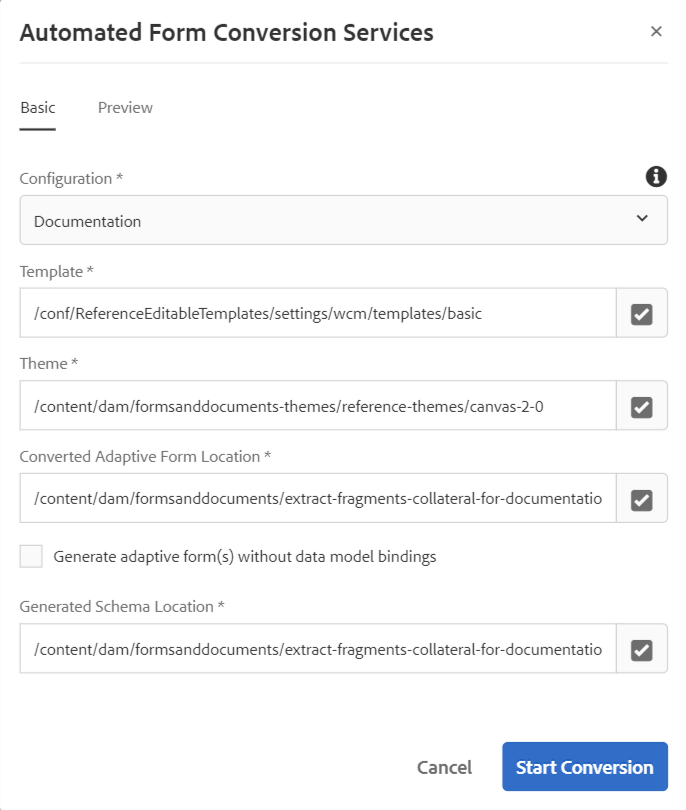
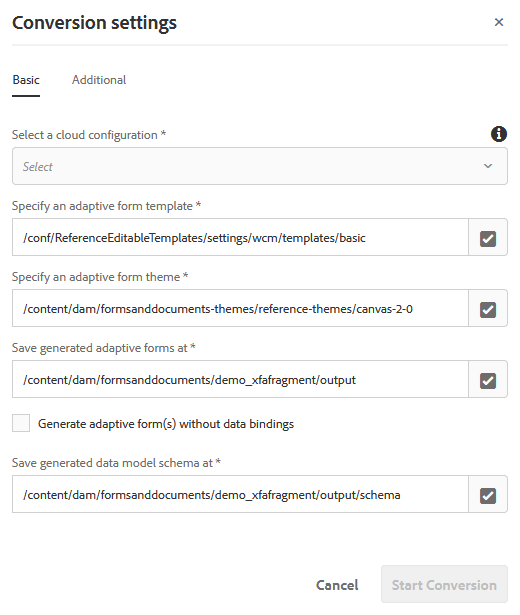
Some updates to docs

diff --git a/help/convert-existing-forms-to-adaptive-forms.md b/help/convert-existing-forms-to-adaptive-forms.md
@@ -34,7 +34,7 @@ After you connect your AEM instance with AEM Forms Conversion Service, you can c
 
 The conversion service converts PDF forms available on your AEM Forms instance to adaptive forms. You can upload all the PDF forms at once or in a phased manner, as required. Before uploading the forms, consider the following:
 
-* Keep the number of forms in folder less than 15 and keep the total number of pages in a folder less than 50.  
+* Keep the number of forms in a folder less than 15 and keep the total number of pages in a folder less than 50.  
 * Keep the size of folder less than 10 MB. Do not keep forms in a sub-folder.
 * Keep the number of pages in a form less than 15.  
 * Do not upload the protected forms. The service does not convert password-protected and secured forms. 
@@ -54,17 +54,16 @@ Perform the following steps to upload the forms to be converted to a folder on y
 
 After you have uploaded the forms and configured the service, perform the following steps to start the conversion:
 
-1. On your AEM Forms instance, tap **[!UICONTROL Adobe Experience Manager]** ![](assets/adobeexperiencemanager.png) > **[!UICONTROL Navigation]** ![](assets/compass.png) **[!UICONTROL]**> **[!UICONTROL Forms]** > **[!UICONTROL Forms & Documents]**.
-1. Select a form or the folder containing PDF forms (forms to be converted) and tap **[!UICONTROL  **Start Automated Conversion**]**. The ****[!UICONTROL Conversion Settings]**** dialog appears.
+1. On your AEM Forms instance, tap **[!UICONTROL Adobe Experience Manager]** ![Conversion Settings Dialog](assets/adobeexperiencemanager.png) > **[!UICONTROL Navigation]** ![](assets/compass.png) **[!UICONTROL]**> **[!UICONTROL Forms]** > **[!UICONTROL Forms & Documents]**.
+1. Select a form or the folder containing PDF forms (forms to be converted) and tap **[!UICONTROL  **Start Automated Conversion**]**. The **[!UICONTROL Conversion Settings]** dialog appears.
 
    ![Specify the configurations](assets/conversion-settings-dialog.png)
 
-1. In the **[!UICONTROL **Basic**]**tab of the Conversion Settings dialog:
+1. In the **[!UICONTROL **Basic**]** tab of the Conversion Settings dialog:
 
-    * Select a** **[!UICONTROL Configuration]****. When you select a configuration, default template and theme are already specified. You can specify a different template or a theme, if required.  
-    
-    * Specify a location to save converted adaptive and corresponding schema. You can use default paths or specify custom paths.  
-    * Use the **Generate adaptive form(s) without data model bindings **option to bind or not bind generated adaptive forms with a data model. If you choose to bind, then you can specify a location to save the data model schema. If you do not select the option, the conversion service automatically associates the adaptive form(s) with a JSON schema and creates a data binding between the fields available in the adaptive form and JSON schema. After a successful conversion, you can also associate an adaptive form with a Form Data Model, XML schema, or a JSON schema. For more information, see [Creating an adaptive form](https://helpx.adobe.com/experience-manager/6-5/forms/using/creating-adaptive-form.html).
+    * **[!UICONTROL Select a cloud configuration]**. When you select a configuration, default template and theme are already specified. You can specify a different template or a theme, if required.  
+    * Specify a location to save generated adaptive forms and corresponding schema. You can use default paths or specify custom paths.  
+    * Use the **Generate adaptive form(s) without data model bindings** option to bind or not bind generated adaptive forms with a data model. If you choose to bind, then you can specify a location to save the data model schema. If you do not select the option, the conversion service automatically associates the adaptive form(s) with a JSON schema and creates a data binding between the fields available in the adaptive form and JSON schema. After a successful conversion, you can also associate an adaptive form with a Form Data Model, XML schema, or a JSON schema. For more information, see [Creating an adaptive form](https://helpx.adobe.com/experience-manager/6-5/forms/using/creating-adaptive-form.html).
 
    <!--
    Comment Type: draft
@@ -75,37 +74,28 @@ After you have uploaded the forms and configured the service, perform the follow
    </note>
    -->
 
-1. In the ****[!UICONTROL Preview]****tab of Conversion Settings dialog,
-
-    * Select the **[!UICONTROL **Extract Fragment**]**option to allow the conversion service to identify, extract, and download form fragments for converted forms. When you select the Extract Fragment option, the options to specify paths for saving extracted form fragments and corresponding form fragments schemas is enabled.  
-    
-    * Specify the location of ****[!UICONTROL Existing Fragments]****, if you have some existing JSON schema based and schema less adaptive form fragments and you plan to use these fragments in automatically generated adaptive forms. Conversion service matches available JSON schema based and schema less adaptive form fragments with input PDF Forms (non-interactive PDF Forms only), if there is a match, the matched adaptive form fragment is used in corresponding adaptive forms.
+1. In the **[!UICONTROL Additional]** tab of Conversion Settings dialog,
+    * Select the **[!UICONTROL **Extract fragment from adaptive forms**]** option to allow the conversion service to identify, extract, and download form fragments for converted forms. When you select the **[!UICONTROL **Extract fragment from adaptive forms**]** option, the options to specify paths for saving extracted form fragments and corresponding form fragments schemas is enabled.  
+    * Specify the location of **[!UICONTROL existing adaptive form fragments]**, if you have some existing JSON schema based and schema less adaptive form fragments and you plan to use these fragments in automatically generated adaptive forms. Conversion service matches available JSON schema based and schema less adaptive form fragments with input PDF Forms (non-interactive PDF Forms only), if there is a match, the matched adaptive form fragment is used in corresponding adaptive forms.
 
    >[!NOTE]
    >
    >
-   >    
-   >    
-   >    * You can use only **[!UICONTROL  **Extract Fragment**]** or ****[!UICONTROL Existing Fragments]**** option at a time. You cannot use both the options simultaneously.
-   >    
-   >    * You can use the **[!UICONTROL Existing Fragments]** option only with non-interactive PDF Forms. Other form types are not supported yet.  
-   >    
-   >    * You can use only unbound fragments or fragments bound to a JSON schema with Automated Conversion Service. Do not use XFA fragments. XFA fragments are not supported.
-   >    
-   >
-
-    * Select the ****[!UICONTROL Auto-detect multi-column layout from input forms]** **option to retain the layout of the source form for large screens like desktops and laptops. The option is helpful in preserving the multi-column layout of source forms. For example, when a source PDF has a two-column layout, the service generates an output adaptive form with a two-column layout for large screen displays and single-column layout for small screen devices like mobile phones. It is an experimental feature which can be removed in the future if deemed not useful. The feature has some known issues with data source schema structure. For details, see the [known-issues](known-issues.md) article.
+   > * You can use only **[!UICONTROL  **Extract Fragment**]** or **[!UICONTROL Use existing adaptive form fragments]** option at a time. You cannot use both the options simultaneously.
+   > * You can use the **[!UICONTROL Use existing adaptive form fragments]** option only with non-interactive PDF Forms. Other form types are not supported yet.  
+   > * You can use only unbound fragments or fragments bound to a JSON schema with Automated Conversion Service. Do not use XFA fragments. XFA fragments are not supported.
+   > 
     
-    * Select the **[!UICONTROL Use input AcroForm(s) as Document of Record (DoR) template for generated adaptive form(s)]** option to automatically generate DoR for all the adaptive forms generated from source AcroForms.
+    * Select the **[!UICONTROL Auto-detect multi-column layout of input forms]** option to retain the layout of the source form for large screens like desktops and laptops. The option is helpful in preserving the multi-column layout of source forms. For example, when a source PDF has a two-column layout, the service generates an output adaptive form with a two-column layout for large screen displays and single-column layout for small screen devices like mobile phones. It is an experimental feature which can be removed in the future if deemed not useful. The feature has some known issues with data source schema structure. For details, see the [known-issues](known-issues.md) article.
+    
+1. Tap **[!UICONTROL Start Conversion]**. The Conversion is started. Conversion progress is displayed on the folder or the form until the conversion is in progress. The message is replaced another status message (Converted, Partially Converted, or Conversion Failed) after the conversion is complete. A status email is also sent on the configured email address on completion of conversion:
+    
+    * On a successful conversion, the converted adaptive form and related schema are downloaded to the path specified in the **[!UICONTROL Basic]** tab of the conversion dialog. Form fragments and corresponding schema are downloaded only if the Extract Fragment option is selected before starting the conversion.
+    * On a failed conversion, the **[!UICONTROL Conversion Failed]** message is displayed if all the input forms fail to convert or the **[!UICONTROL Partially Failed]** message is displayed when only a few of all the input forms fail to convert. A status email is sent on the [configured email address](configure-the-automated-forms-conversion-service.md#main-pars-header-242943920) and an error is logged to the error.log file.
 
-1.
+   If you are converting an XFA-based PDF form in to an adaptive form,the conversion service automatically associates the PDF form to the converted adaptive form as the Document of Record template. After conversion, you can open the adaptive form properties to view the Document of Record template in the **[!UICONTROL Document of Record Template Configuration]** section of **[!UICONTROL Form Model]** tab. </br>
 
-    * On a successful conversion, the converted adaptive form and related schema are downloaded to the path specified in the ****[!UICONTROL Basic]**** tab of the conversion dialog. Form fragments and corresponding schema are downloaded only if the Extract Fragment option is selected before starting the conversion.
-    * On a failed conversion, the ****[!UICONTROL Conversion Failed]** **message is displayed if all the input forms fail to convert or the ****[!UICONTROL Partially Failed]**** message is displayed when only a few of all the input forms fail to convert. A status email is sent on the [configured email address](configure-the-automated-forms-conversion-service.md#main-pars-header-242943920) and an error is logged to the error.log file.
-
-   If you are converting an XFA-based PDF form in to an adaptive form, the conversion service automatically associates the PDF form to the converted adaptive form as the Document of Record template. After conversion, you can open the adaptive form properties to view the Document of Record template in the **[!UICONTROL Document of Record Template Configuration]** section of **[!UICONTROL Form Model]** tab.
-
-   The conversion service automatically uploads the PDF form to the converted adaptive form as the Document of Record template only if you enable the **[!UICONTROL Tools]** > **[!UICONTROL Cloud Services]** > **[!UICONTROL Automated Forms Conversion Configuration]** > `Properties of selected configuration` **[!UICONTROL Advanced]** > **[!UICONTROL Generate Document of Record]**option.
+   The conversion service automatically uploads the PDF form to the converted adaptive form as the Document of Record template only if you enable the **[!UICONTROL Tools]** > **[!UICONTROL Cloud Services]** > **[!UICONTROL Automated Forms Conversion Configuration]** > `Properties of selected configuration` **[!UICONTROL Advanced]** > **[!UICONTROL Generate Document of Record]** option.
 
    <!--
    Comment Type: draft
@@ -135,11 +125,3 @@ After you have uploaded the forms and configured the service, perform the follow
 ## Review and correct the converted forms {#review-and-correct-the-converted-forms}
 
 Real world forms have complex data capture requirements. Once the automated conversion is complete, customers can review the conversion quality of the form and make necessary updates to the form. AEM Forms provides a [review and correct](review-correct-ui-edited.md) editor to make required changes. It allows you to improve automated identification of form fields and convert identified fields from one type to another. For example, you can help identify two-column layout of a form and change a field automatically identified as radio button to multiple choices field.
-
-## Previous {#previous}
-
-[Configure the Automated Forms Conversion service](configure-the-automated-forms-conversion-service.md)
-
-## Next {#next}
-
-[Review and correct converted forms](review-correct-ui-edited.md)
